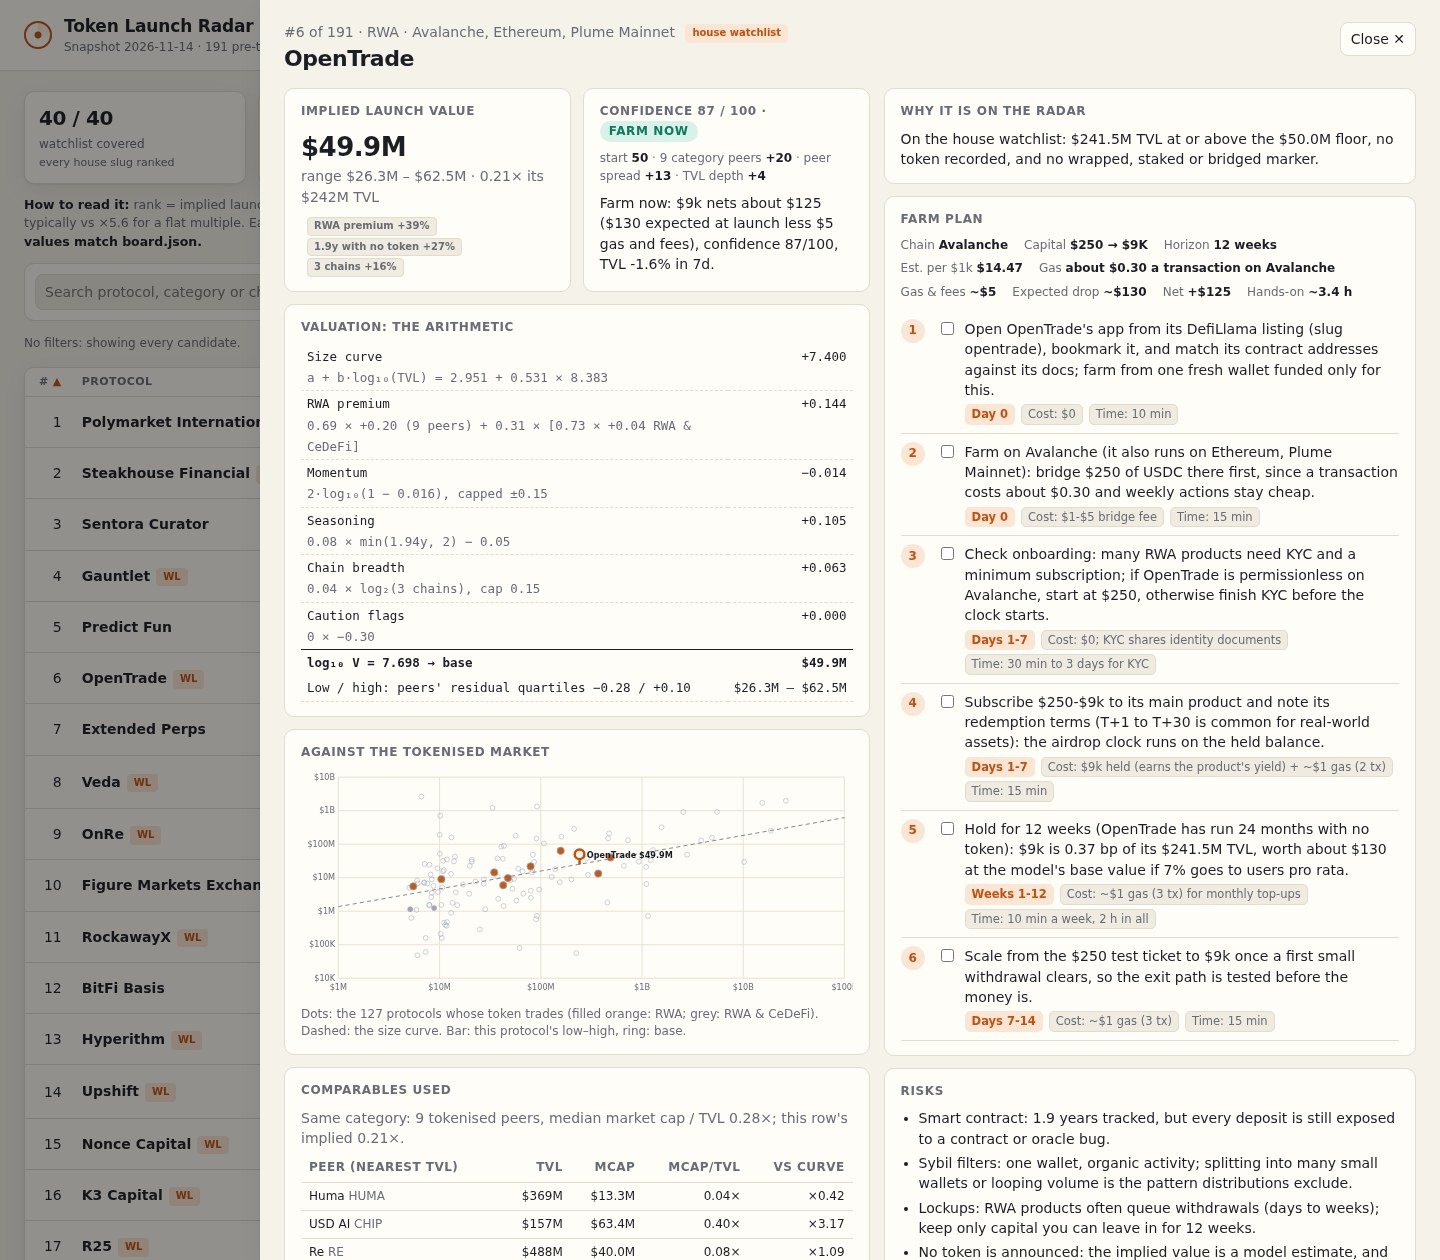
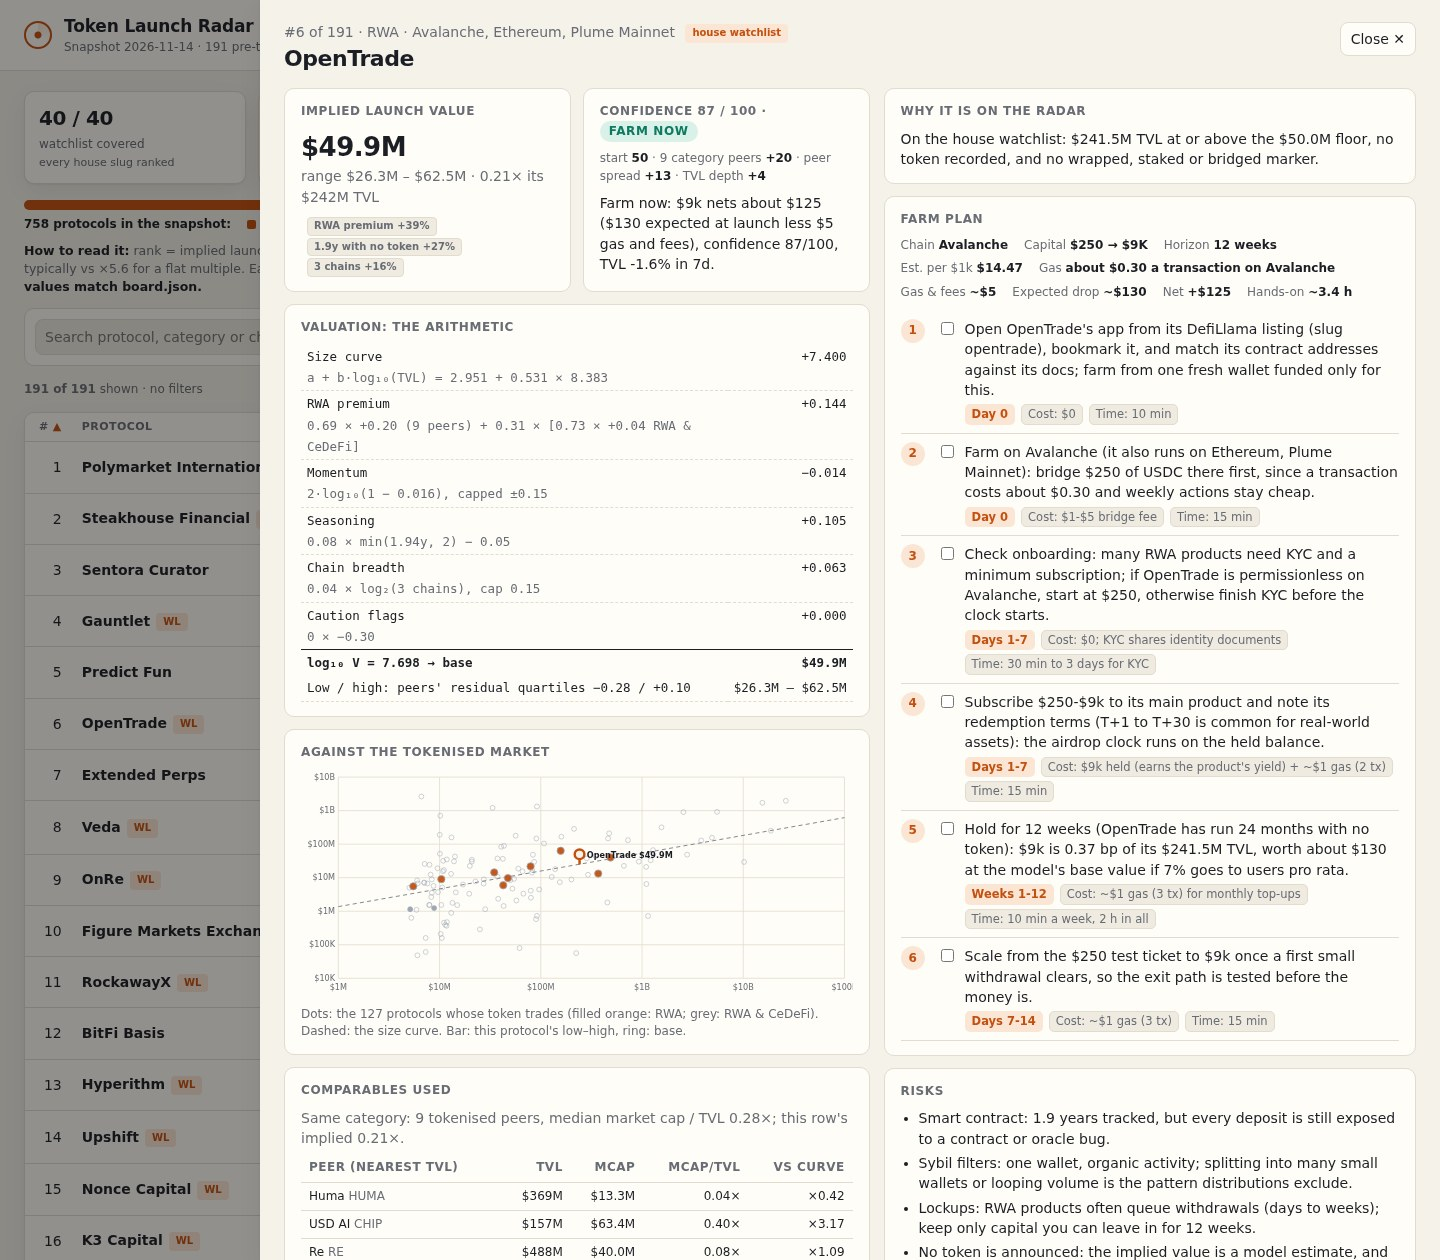
Board shows where all 758 protocols went; filtered view proves full watchlist coverage
Claude-Session: https://claude.ai/code/session_01Bsb1nHQGG3fWFxNRjMfEoB

diff --git a/dashboard/app.js b/dashboard/app.js
@@ -105,7 +105,13 @@
       k(usd(tvl), 'TVL with no token', R.counts.live + ' with a token kept off') +
       k(usd(val), 'implied launch value', 'sum of base cases') +
       k(String(now), 'farm now', 'of ' + rows.length + ' plans') +
-      k(esc(top[0]), 'top category by TVL', esc(top.slice(1).join(' · '))) + '</section>';
+      k(esc(top[0]), 'top category by TVL', esc(top.slice(1).join(' · '))) + '</section>' + split();
+  }
+  /* Every protocol in the snapshot, in one bar: ranked pre-token candidates, tokens that trade, products of a traded token. */
+  function split() {
+    var c = R.counts, all = c.protocols, parts = [['board', rows.length, 'pre-token candidates, ranked below', 'var(--accent)'], ['live', c.live, 'token already trades: comparables, not ranked', 'var(--pos)'], ['excluded', c.excluded, 'no token, but a product of a traded one', 'var(--peer)']];
+    return '<section class="split" aria-label="Where every protocol in the snapshot went"><div class="bar">' + parts.map(function (x) { return '<a href="#view=' + x[0] + '" style="flex:' + x[1] + ';background:' + x[3] + '" title="' + x[1] + ' ' + x[2] + '"></a>'; }).join('') + '</div><div class="legend"><b>' + all + ' protocols in the snapshot:</b> ' +
+      parts.map(function (x) { return '<span><i style="background:' + x[3] + '"></i><b>' + x[1] + '</b> ' + x[2] + '</span>'; }).join('') + '</div></section>';
   }
   function opts(list, cur, all) { return '<option value="">' + all + '</option>' + list.map(function (x) { return '<option' + (x === cur ? ' selected' : '') + '>' + esc(x) + '</option>'; }).join(''); }
   function board(s) {
@@ -146,7 +152,7 @@
       '<select id="conf" aria-label="Minimum confidence"><option value="">Any confidence</option>' + ['40', '55', '70'].map(function (c) { return '<option value="' + c + '"' + (s.conf === c ? ' selected' : '') + '>Confidence ≥ ' + c + '</option>'; }).join('') + '</select>' +
       '<div class="seg" role="group" aria-label="Farm priority">' + seg + '</div>' +
       '<label class="muted"><input type="checkbox" id="w"' + (s.w ? ' checked' : '') + '> Watchlist only</label></form>' +
-      '<div class="chips" aria-live="polite"><span class="muted">' + (chips.length ? 'Filters:' : 'No filters: showing every candidate.') + '</span>' + chips.join('') + (chips.length ? '<button type="button" class="clear" data-unset="all">Clear all</button>' : '') + '</div>' +
+      '<div class="chips" aria-live="polite"><span class="muted"><b>' + list.length + ' of ' + rows.length + '</b> shown' + (s.w && list.length === R.counts.watchlist ? ' (all ' + R.counts.watchlist + ' watchlist protocols)' : '') + ' · ' + (chips.length ? 'filters:' : 'no filters') + '</span>' + chips.join('') + (chips.length ? '<button type="button" class="clear" data-unset="all">Clear all</button>' : '') + '</div>' +
       '<div class="tablewrap"><table><caption class="sr" hidden>Pre-token protocols ranked by implied launch value</caption><thead><tr>' +
       th('r', '#', 'n') + th('n', 'Protocol') + th('c', 'Category', 'hide-sm') + th('ch', 'Chains', 'hide-md') + th('tvl', 'TVL · 7d', 'n') + th('age', 'No token for', 'n hide-sm') + th('b', 'Implied value (low – high)') + th('conf', 'Conf.', 'n hide-sm') + th('pr', 'Farm') +
       '</tr></thead><tbody>' + (body || '<tr><td colspan="9" class="empty">No protocol matches these filters.</td></tr>') + '</tbody></table></div>' +

diff --git a/dashboard/app.css b/dashboard/app.css
@@ -55,6 +55,11 @@ main { padding: 20px 24px 8px; max-width: 1440px; margin: 0 auto; }
 .kpi span { color: var(--muted); font-size: 12px; }
 .kpi small { display: block; color: var(--muted); font-size: 11px; margin-top: 2px; white-space: nowrap; overflow: hidden; text-overflow: ellipsis; }
 
+.split { margin: 0 0 12px; }
+.split .bar { display: flex; height: 10px; border-radius: 5px; overflow: hidden; gap: 2px; }
+.split .legend { display: flex; flex-wrap: wrap; gap: 4px 16px; font-size: 12px; color: var(--muted); margin-top: 6px; }
+.split .legend b { color: var(--ink); }
+.split i { display: inline-block; width: 9px; height: 9px; border-radius: 2px; margin-right: 5px; vertical-align: -1px; }
 /* Filters */
 .filters { display: flex; flex-wrap: wrap; gap: 8px; align-items: center; background: var(--card); border: 1px solid var(--line); border-radius: var(--r); padding: 10px; margin-bottom: 10px; }
 .filters input[type="search"] { flex: 1 1 200px; min-width: 160px; }
